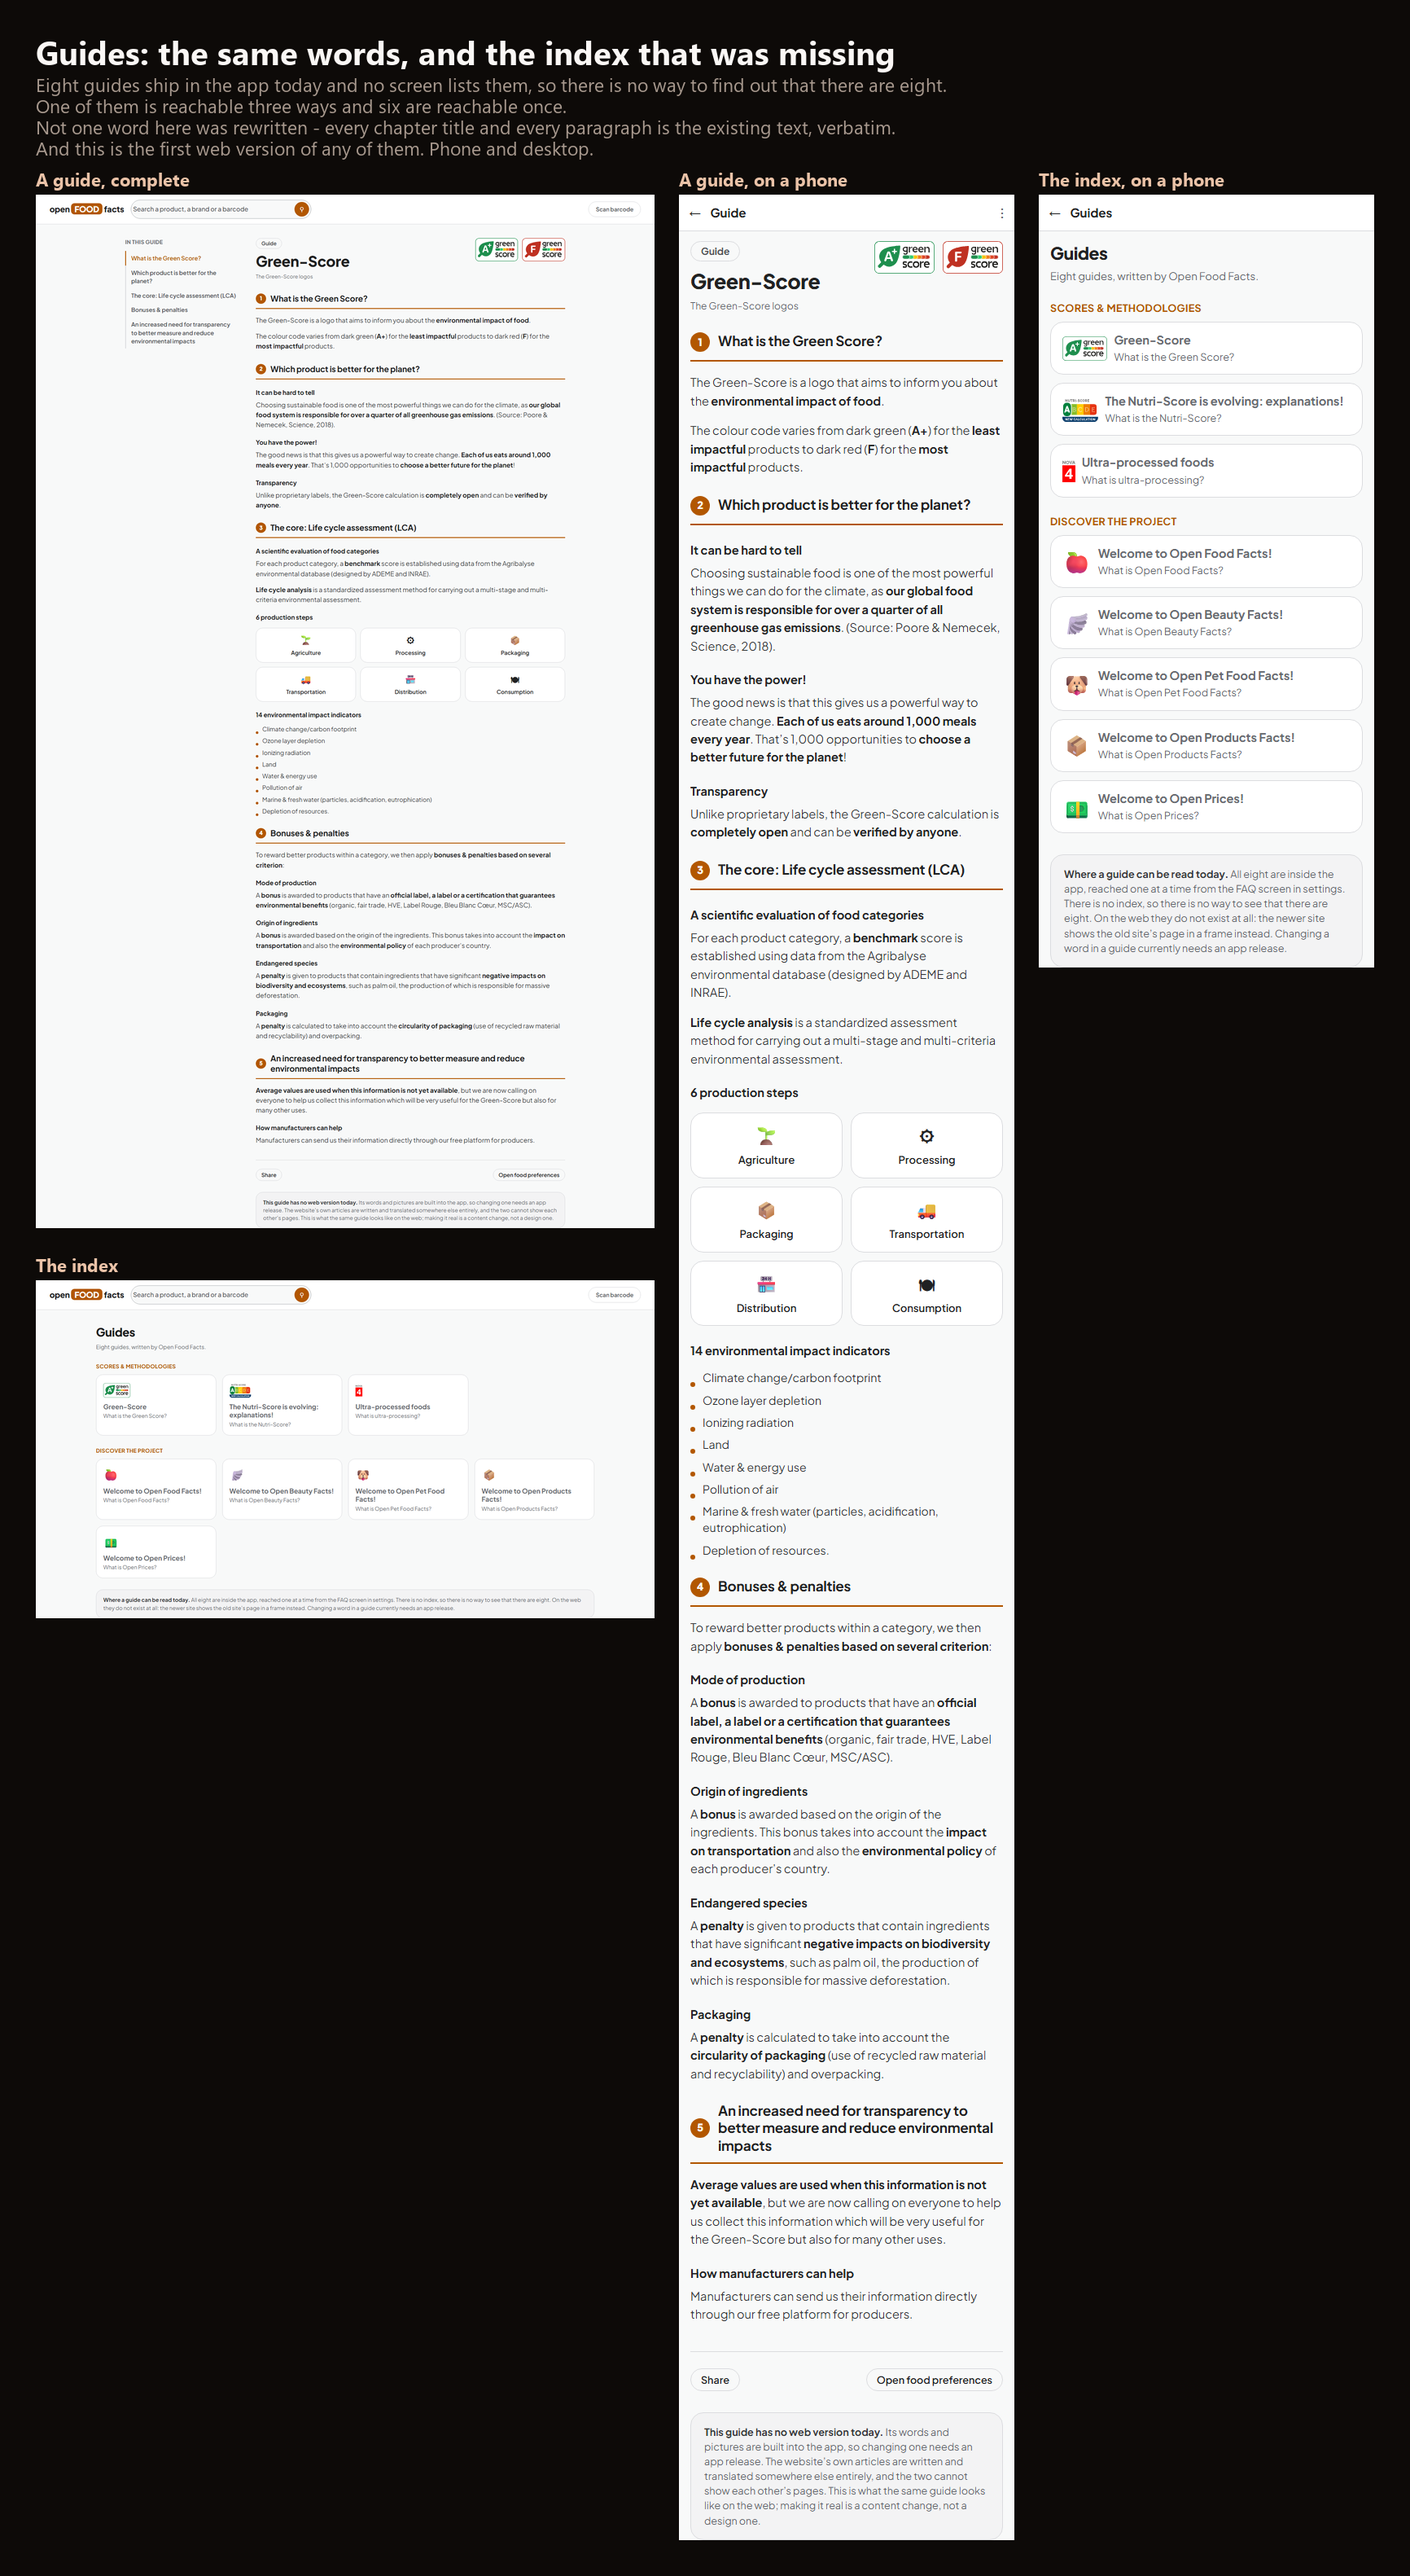
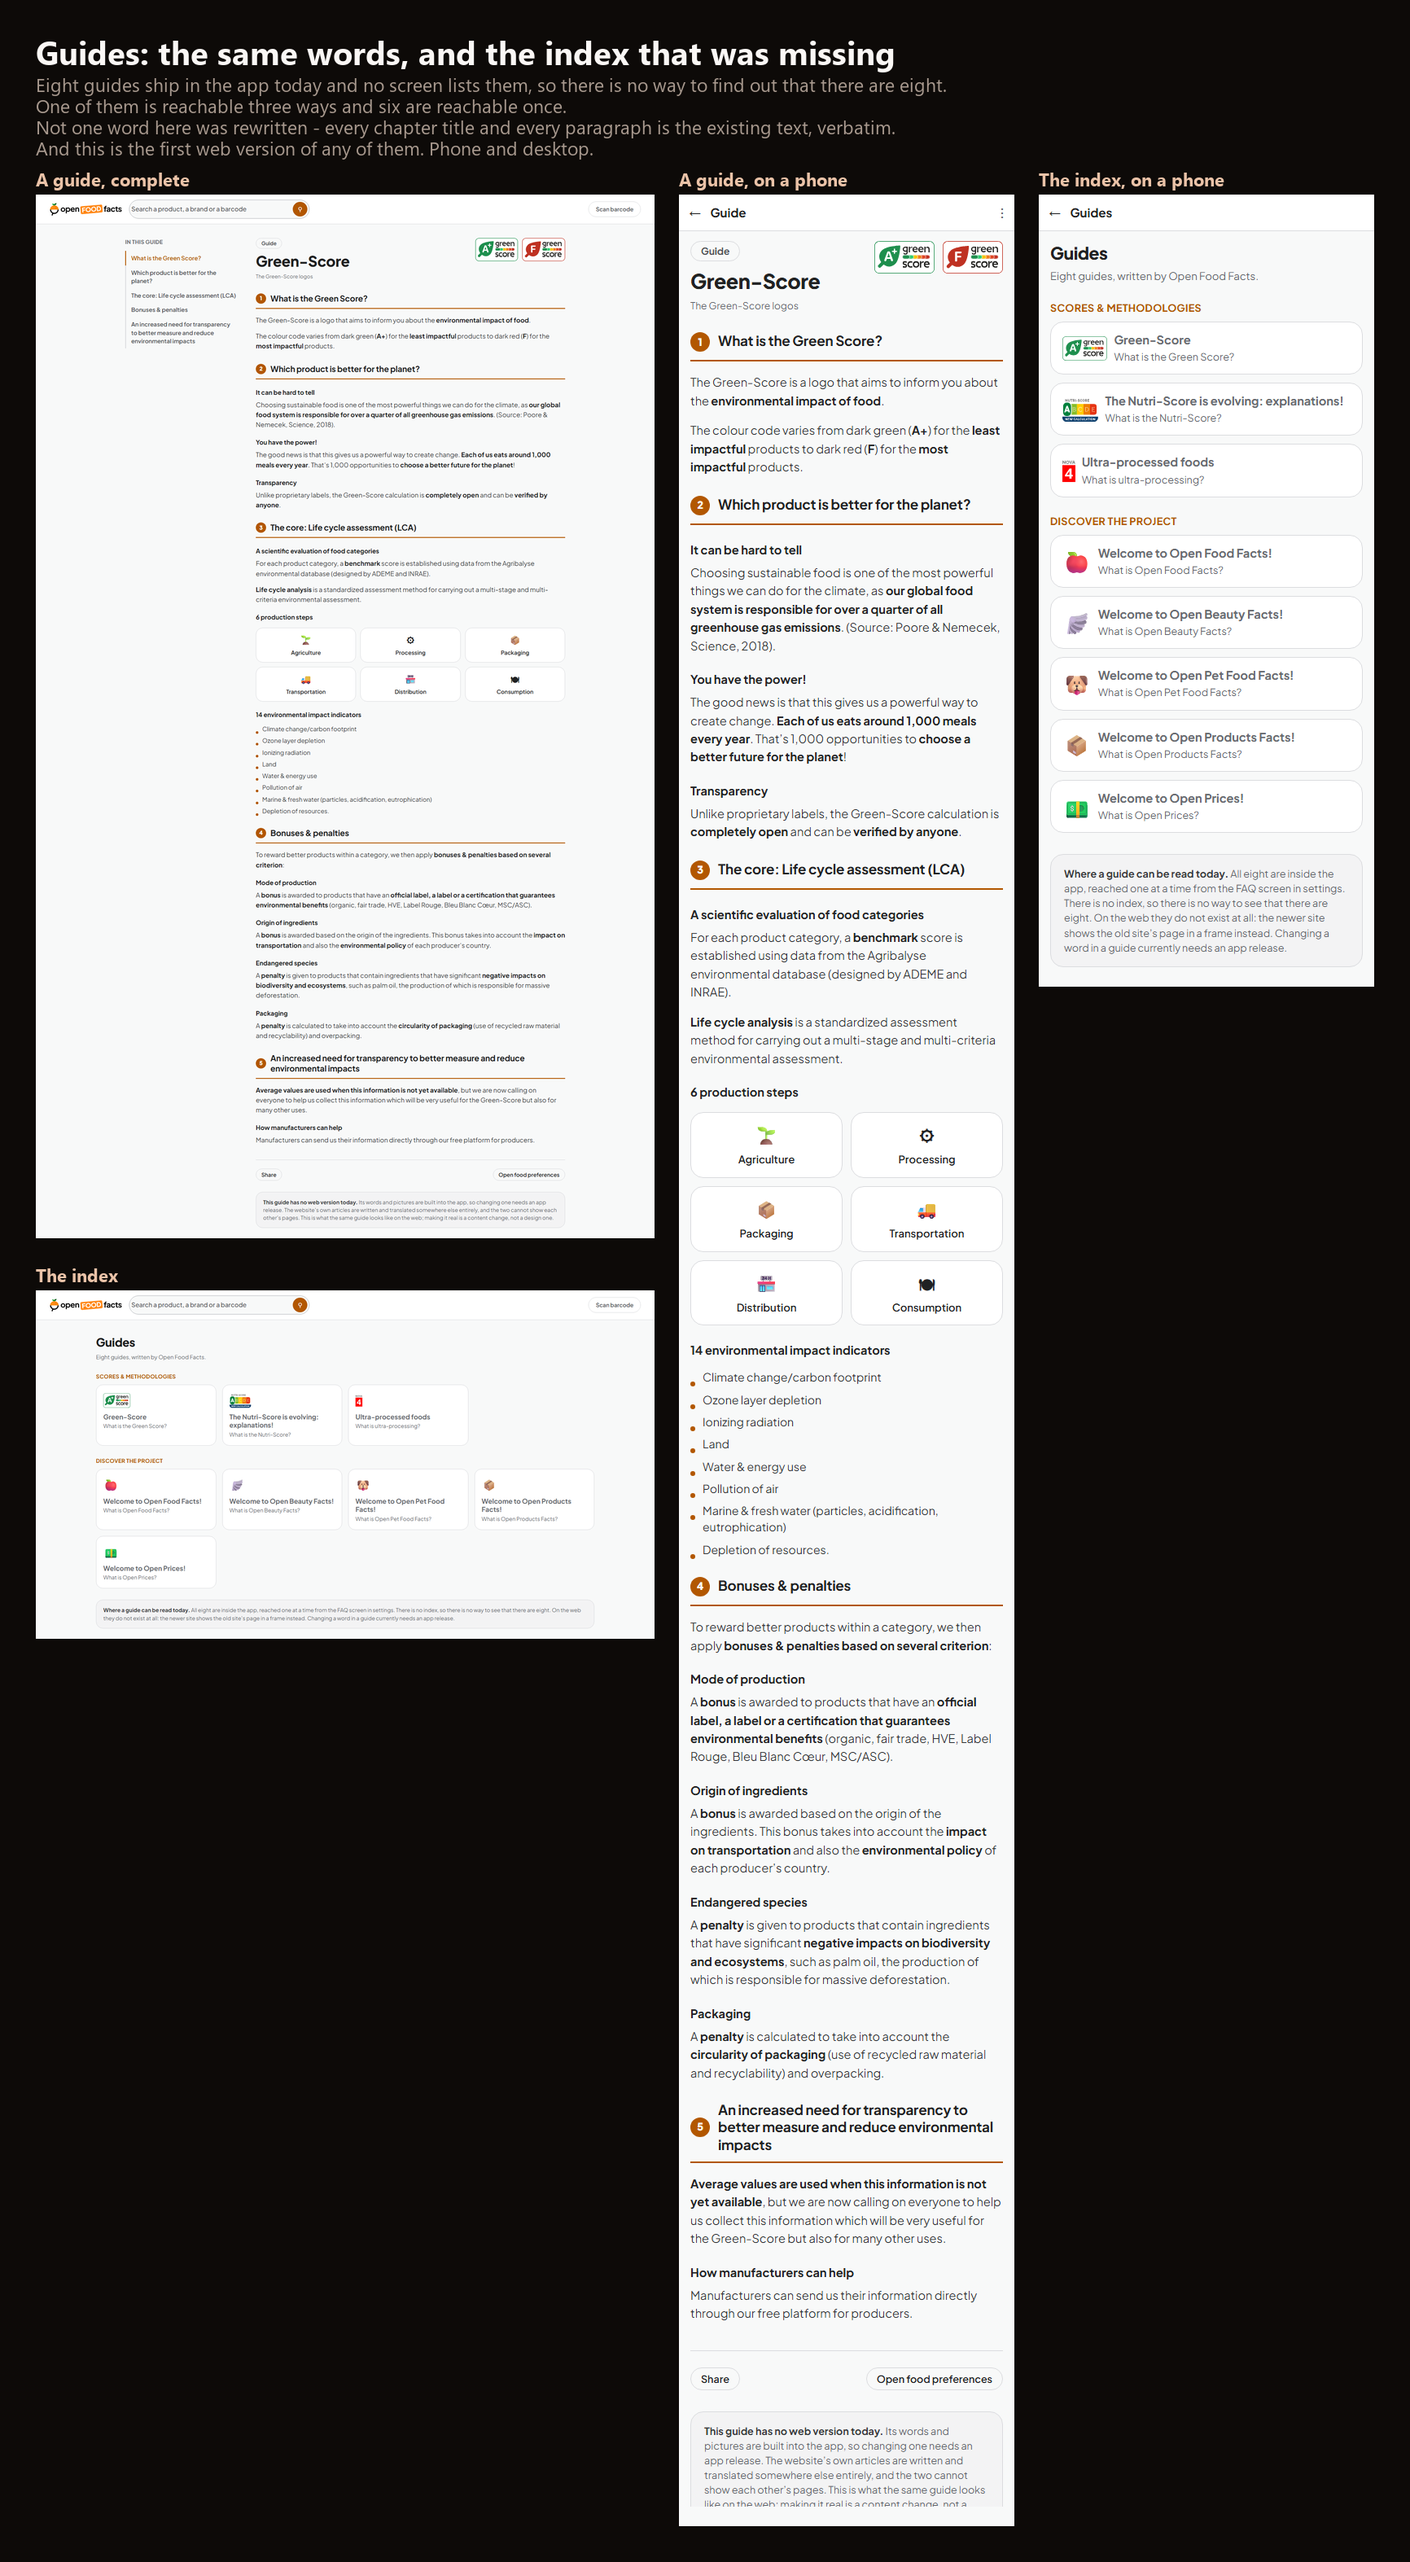
the two oldest screens now say what the server says: twelve paraphrases corrected, and both folders finally have a content gate

diff --git a/21-maps/mock.css b/21-maps/mock.css
@@ -83,7 +83,7 @@
 .tags { display: flex; flex-wrap: wrap; gap: 8px; padding: 12px 16px; }
 .tags a { border: 1px solid var(--line); border-radius: 999px; padding: 5px 12px; font-size: 12.5px; color: var(--muted2); text-decoration: none; }
 
-.srow { display: flex; align-items: center; gap: 12px; padding: 12px 16px; border-bottom: 1px solid var(--line-soft); text-decoration: none; color: inherit; }
+.srow { display: flex; align-items: center; gap: 12px; padding: 12px 20px; border-bottom: 1px solid var(--line-soft); text-decoration: none; color: inherit; }
 .srow:last-child { border-bottom: 0; }
 .srow .lg {
   width: 40px; height: 40px; border-radius: 10px; flex: none; overflow: hidden;
@@ -93,8 +93,8 @@
 }
 .srow .lg img { width: 100%; height: 100%; object-fit: contain; }
 .srow .t { flex: 1; min-width: 0; }
-.srow .t b { display: block; font-size: 14.5px; font-weight: 700; }
-.srow .t i { font-style: normal; display: block; font-size: 12.5px; color: var(--muted); }
+.srow .t b { font-size: 14px; font-weight: 600; display: block; }
+.srow .t i { font-style: normal; font-size: 12px; color: var(--muted); }
 .srow .t u { text-decoration: none; display: block; font-size: 12px; color: var(--faint); }
 .srow .go2 { color: var(--faint); font-size: 17px; flex: none; }
 
